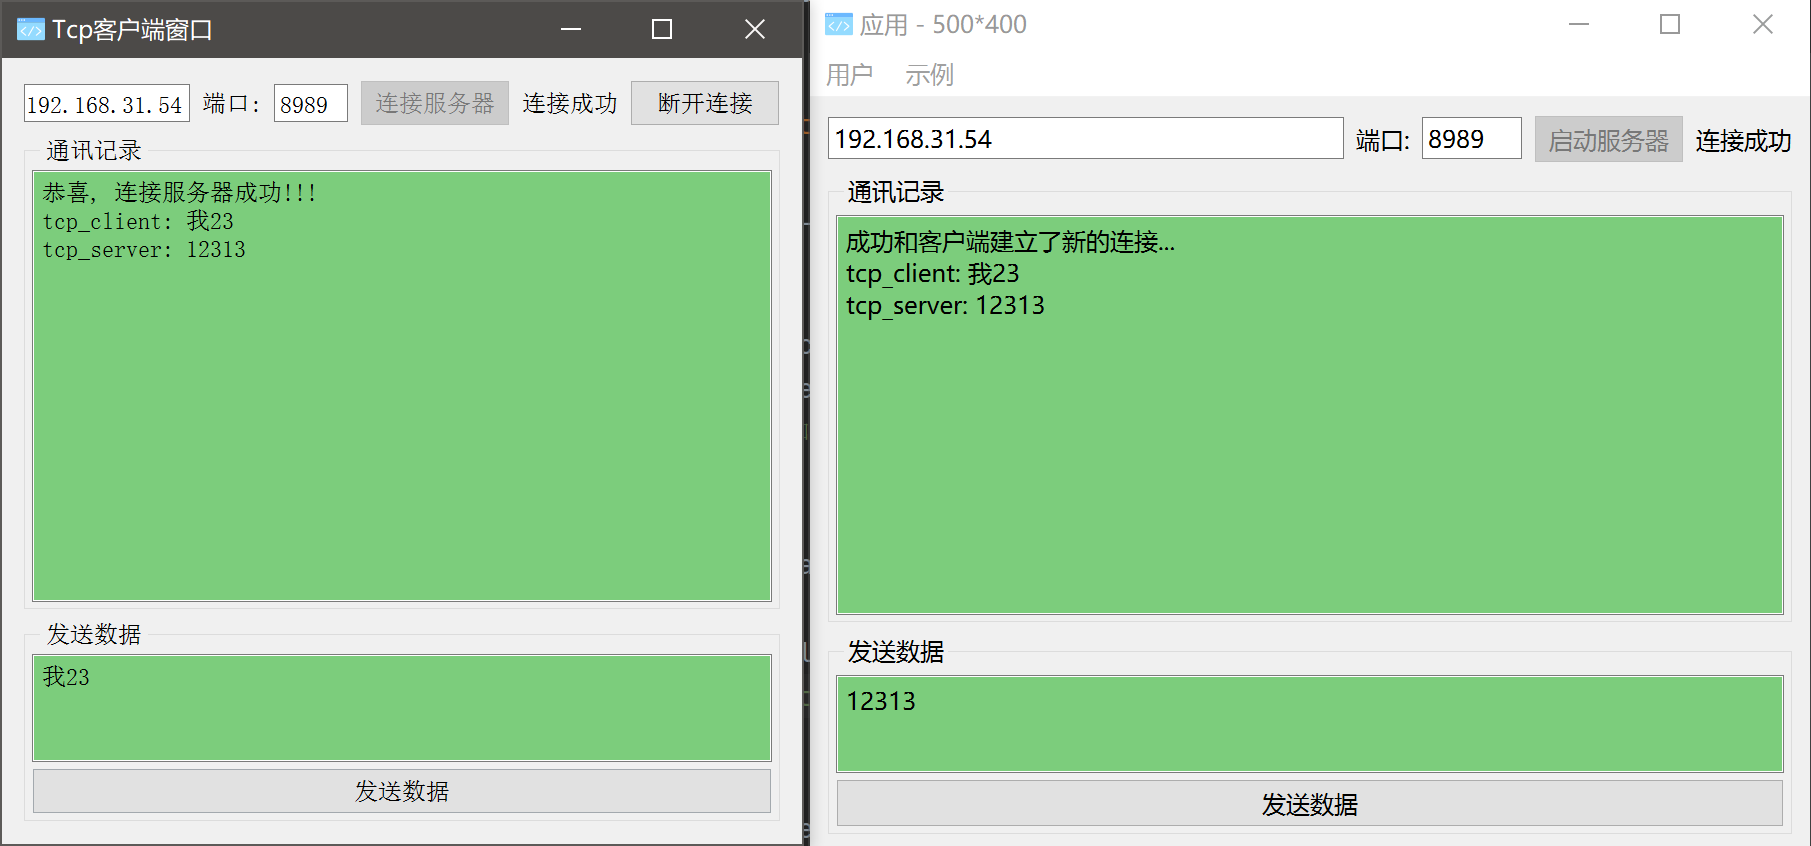
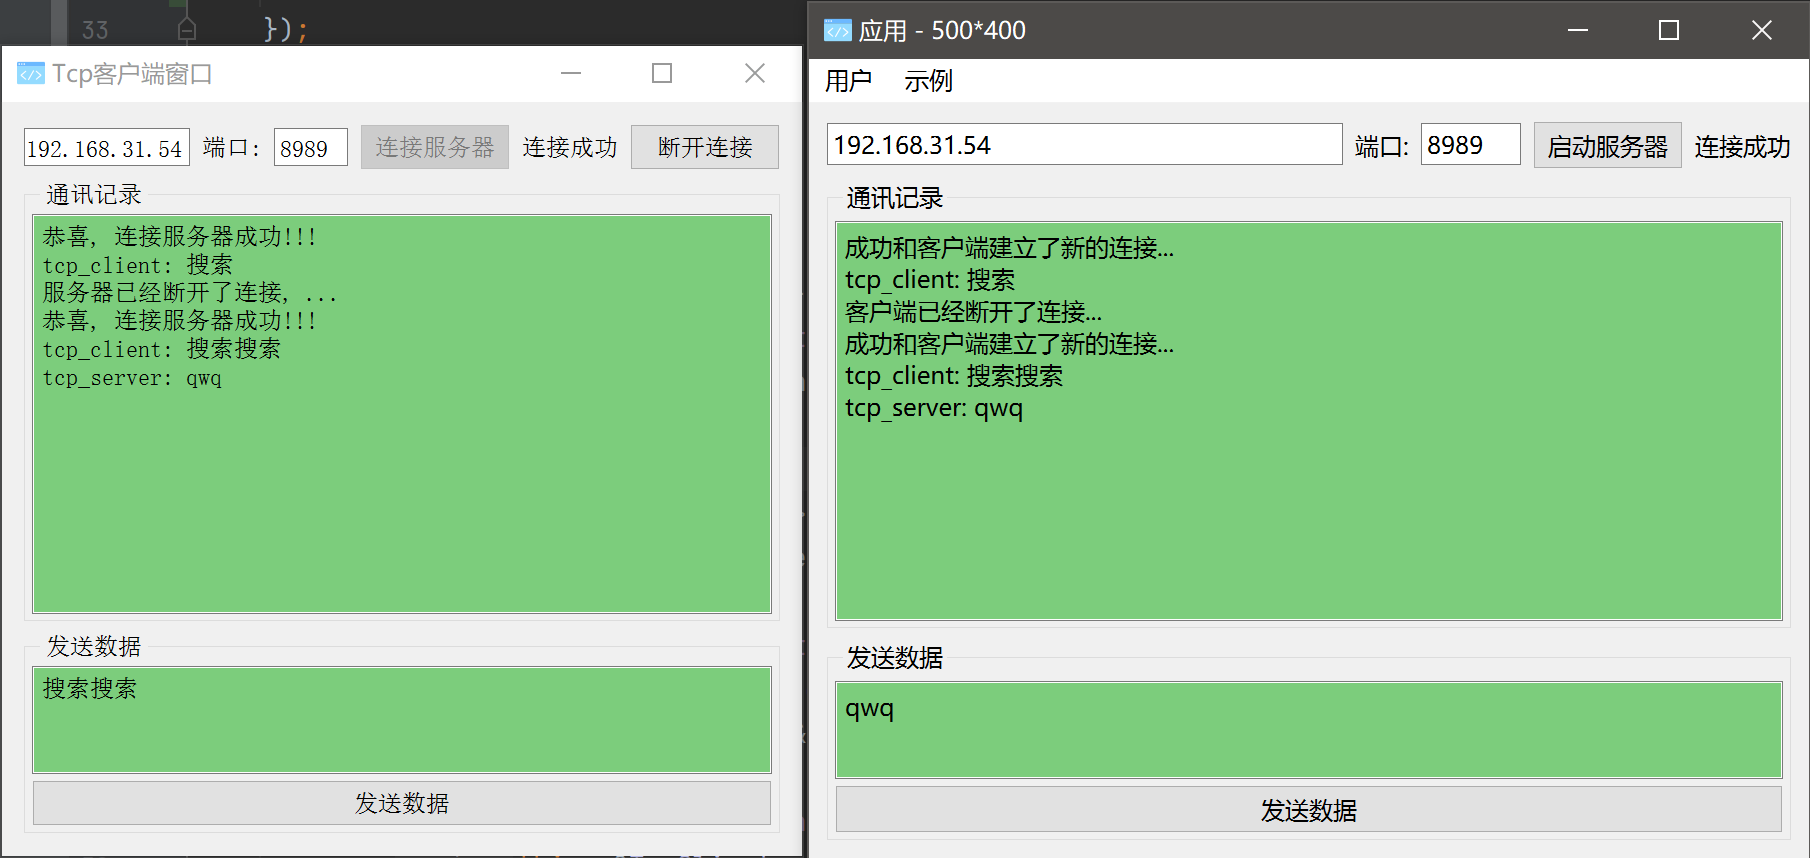
修改了bug，更新了项目文件名称

Changed region(s): [[0.0, 0.0, 1.0, 1.0], [0.7425, 0.1229, 0.9901, 0.2151], [0.0309, 0.9835, 0.2166, 1.0]]

diff --git a/src/TcpClientWidget.cpp b/src/TcpClientWidget.cpp
@@ -4,8 +4,8 @@
 
 // You may need to build the project (run Qt uic code generator) to get "ui_TcpClient.h" resolved
 
-#include "tcpclient.h"
-#include "Forms/ui_TcpClient.h"
+#include "TcpClientWidget.h"
+#include "Forms/ui_TcpClientWidget.h"
 
 
 TcpClient::TcpClient(QWidget *parent) :
@@ -26,7 +26,10 @@ TcpClient::TcpClient(QWidget *parent) :
     connect(this->m_tcp, &QTcpSocket::connected, this, [=]()
     {
         ui->msg_textEdit->append("恭喜, 连接服务器成功!!!");
+        ui->connect_server_pushButton->setEnabled(false);
+        ui->disconnect_server_pushButton->setEnabled(true);
         ui->state_label->setText("连接成功");
+        ui->send_msg_pushButton->setEnabled(true);
     });
 
     // 检测服务器是否和客户端断开了连接
@@ -35,9 +38,11 @@ TcpClient::TcpClient(QWidget *parent) :
         ui->msg_textEdit->append("服务器已经断开了连接, ...");
         ui->connect_server_pushButton->setEnabled(true);
         ui->disconnect_server_pushButton->setEnabled(false);
+        ui->send_msg_pushButton->setEnabled(false);
     });
 
     ui->disconnect_server_pushButton->setEnabled(false);
+    ui->send_msg_pushButton->setEnabled(false);
     //连接action与函数的信号槽
     connect(ui->connect_server_pushButton, &QPushButton::clicked,
             this, &TcpClient::connect_server_pushButton_clicked);
@@ -56,9 +61,6 @@ void TcpClient::connect_server_pushButton_clicked() {
     unsigned short port = ui->port_lineEdit->text().toInt();
     // 连接服务器
     this->m_tcp->connectToHost(QHostAddress(ip), port);
-    ui->connect_server_pushButton->setEnabled(false);
-    ui->disconnect_server_pushButton->setEnabled(true);
-    ui->state_label->setText("连接成功");
 }
 
 void TcpClient::send_msg_pushButton_clicked() {

diff --git a/src/TcpServerWidget.cpp b/src/TcpServerWidget.cpp
@@ -4,8 +4,8 @@
 
 // You may need to build the project (run Qt uic code generator) to get "ui_TcpServer.h" resolved
 
-#include "tcpserver.h"
-#include "Forms/ui_TcpServer.h"
+#include "TcpServerWidget.h"
+#include "Forms/ui_TcpServerWidget.h"
 
 
 TcpServer::TcpServer(QWidget *parent) :
@@ -21,6 +21,7 @@ TcpServer::TcpServer(QWidget *parent) :
         this->m_tcp = this->m_server->nextPendingConnection();
         ui->msg_textEdit->append("成功和客户端建立了新的连接...");
         ui->state_label->setText("连接成功");
+        ui->send_msg_pushButton->setEnabled(true);
         // 检测是否有客户端数据
         connect(m_tcp, &QTcpSocket::readyRead, this, [=]() {
             // 接收数据
@@ -33,9 +34,11 @@ TcpServer::TcpServer(QWidget *parent) :
             this->m_tcp->deleteLater();
             ui->state_label->setText("连接失败");
             ui->start_server_pushButton->setEnabled(true);
+            ui->send_msg_pushButton->setEnabled(false);
         });
     });
 
+    ui->send_msg_pushButton->setEnabled(false);
     //连接action与函数的信号槽
     connect(ui->start_server_pushButton, &QPushButton::clicked,
             this, &TcpServer::start_server_pushButton_clicked);

diff --git a/src/Headers/MainWindow.h b/src/Headers/MainWindow.h
@@ -9,10 +9,10 @@
 #include <QMessageBox>
 #include <QMouseEvent>
 
-#include "loginwidget.h"
-#include "tcpserver.h"
-#include "tcpclient.h"
-#include "learnnetworkwidget.h"
+#include "LoginWidget.h"
+#include "TcpServerWidget.h"
+#include "TcpClientWidget.h"
+#include "LearnNetworkWidget.h"
 
 QT_BEGIN_NAMESPACE
 namespace Ui { class MainWindow; }

diff --git a/src/Headers/TcpClientWidget.h b/src/Headers/TcpClientWidget.h
@@ -2,8 +2,8 @@
 // Created by Admin on 2022/11/29.
 //
 
-#ifndef LEARN_QT_TCPCLIENT_H
-#define LEARN_QT_TCPCLIENT_H
+#ifndef LEARN_QT_TCPCLIENTWIDGET_H
+#define LEARN_QT_TCPCLIENTWIDGET_H
 
 #include <QWidget>
 #include <QTcpServer>
@@ -33,4 +33,4 @@ private:
 };
 
 
-#endif //LEARN_QT_TCPCLIENT_H
+#endif //LEARN_QT_TCPCLIENTWIDGET_H

diff --git a/src/Headers/TcpServerWidget.h b/src/Headers/TcpServerWidget.h
@@ -2,8 +2,8 @@
 // Created by Admin on 2022/11/29.
 //
 
-#ifndef LEARN_QT_TCPSERVER_H
-#define LEARN_QT_TCPSERVER_H
+#ifndef LEARN_QT_TCPSERVERWIDGET_H
+#define LEARN_QT_TCPSERVERWIDGET_H
 
 #include <QWidget>
 #include <QTcpServer>
@@ -35,4 +35,4 @@ private:
 };
 
 
-#endif //LEARN_QT_TCPSERVER_H
+#endif //LEARN_QT_TCPSERVERWIDGET_H

diff --git a/src/LearnNetworkWidget.cpp b/src/LearnNetworkWidget.cpp
@@ -5,7 +5,7 @@
 // You may need to build the project (run Qt uic code generator) to get "ui_LearnNetworkWidget.h" resolved
 
 
-#include "learnnetworkwidget.h"
+#include "LearnNetworkWidget.h"
 #include "Forms/ui_LearnNetworkWidget.h"
 
 

diff --git a/src/LoginWidget.cpp b/src/LoginWidget.cpp
@@ -5,7 +5,7 @@
 // You may need to build the project (run Qt uic code generator) to get "ui_LoginWidget.h" resolved
 
 
-#include "loginwidget.h"
+#include "LoginWidget.h"
 #include "Forms/ui_LoginWidget.h"
 
 

diff --git a/src/MainWindow.cpp b/src/MainWindow.cpp
@@ -4,7 +4,7 @@
 
 // You may need to build the project (run Qt uic code generator) to get "ui_MainWindow.h" resolved
 
-#include "mainwindow.h"
+#include "MainWindow.h"
 #include "Forms/ui_MainWindow.h"
 
 

diff --git a/src/main.cpp b/src/main.cpp
@@ -1,5 +1,5 @@
 #include <QApplication>
-#include "mainwindow.h"
+#include "MainWindow.h"
 
 int main(int argc, char *argv[]) {
     //高分屏属性以便支持2K4K等高分辨率
